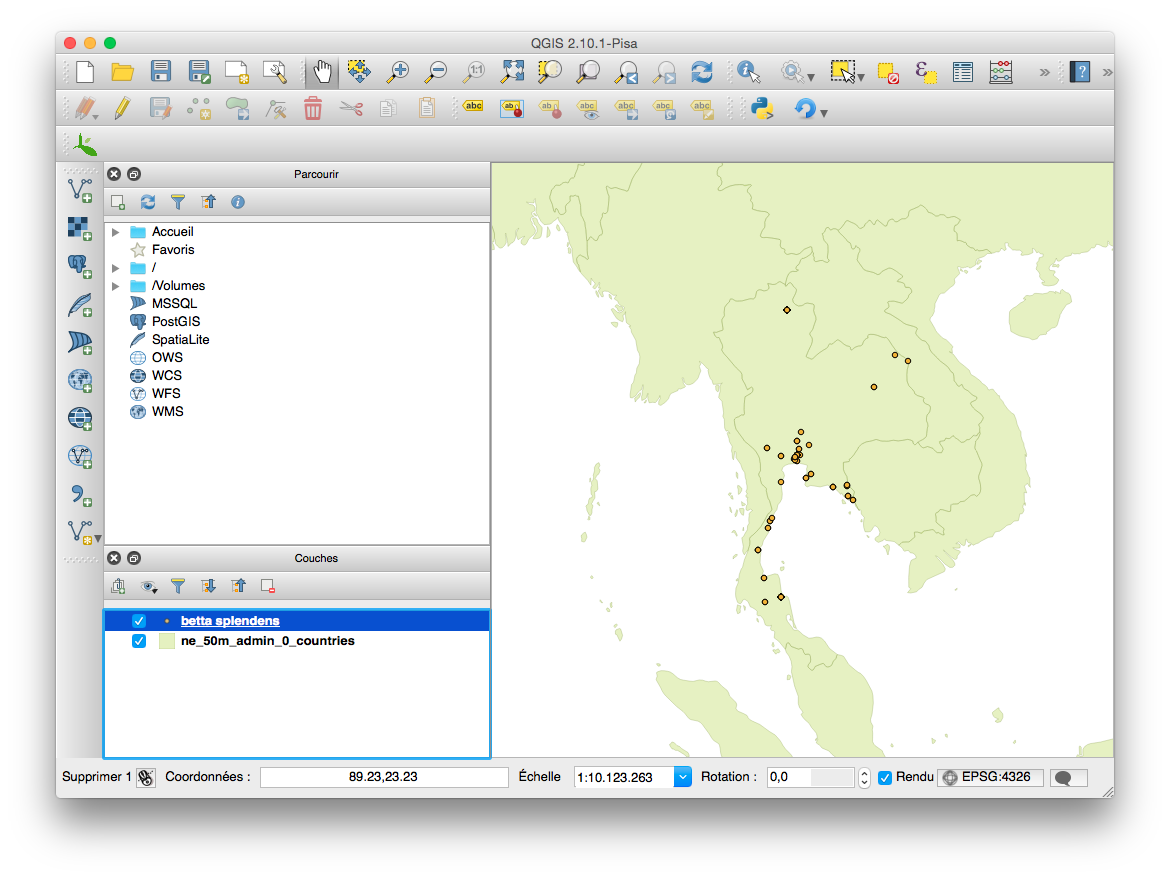
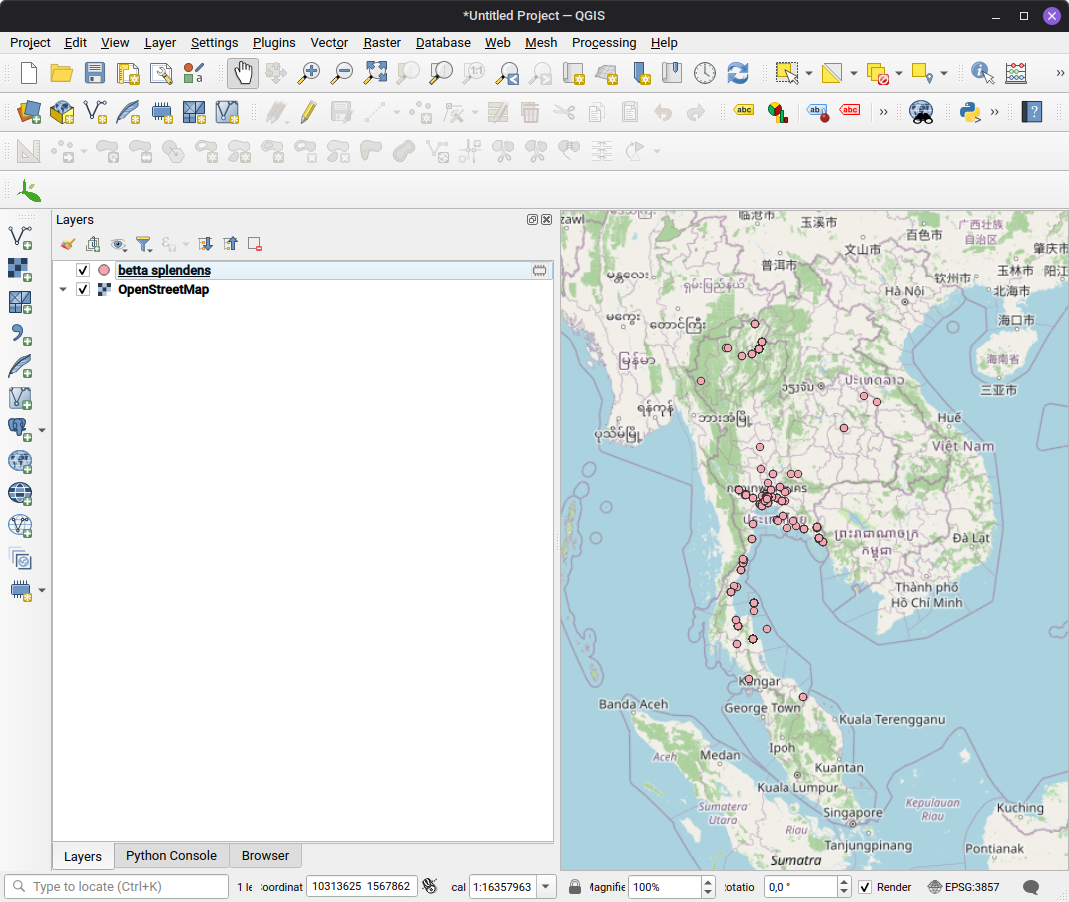
correct country list when there is a , and update readme and some screenshot

diff --git a/GBIFOccurrences/qgis_occurrences_dialog.py b/GBIFOccurrences/qgis_occurrences_dialog.py
@@ -65,9 +65,17 @@ def get_countries():
         country_attr = {}
         line = file.readLine()
         items = line.split(QByteArray(','.encode()))
-        country_attr["name"] = items[0].trimmed().data().decode()
-        country_attr["alpha2"] = items[1].trimmed().data().decode()
-        country_attr["alpha3"] = items[2].trimmed().data().decode()
+        if len(items) > 9:
+            name = items[0].trimmed().data().decode() + ' ' + items[1].trimmed().data().decode()
+            alpha2 = items[2].trimmed().data().decode()
+            alpha3 = items[3].trimmed().data().decode()
+        else:
+            name = items[0].trimmed().data().decode()
+            alpha2 = items[1].trimmed().data().decode()
+            alpha3 = items[2].trimmed().data().decode()
+        country_attr["name"] = name.strip('"')
+        country_attr["alpha2"] = alpha2
+        country_attr["alpha3"] = alpha3
         countries.append(country_attr)
     file.close()
     return countries

diff --git a/README.md b/README.md
@@ -10,8 +10,6 @@ Tutorial
 Installation
 ------------
 
-**Note: the plugin has been re-submitted to the QGIS plugins repository. If you used a previous version, you will need to uninstall it and reinstall it completely (update won't work).**
-
 1. Launch QGIS
 2. In the main menu, go to `Plugins` -> `Manage and install plugins...`
 3. Go to `Settings`and make sure `Show also experimental plugins` is checked
@@ -23,7 +21,7 @@ Installation
 Use
 ---
 
-1. Open the extension window from the main menu: Vector -> GBIF Occurrences -> Load GBIF Occurrences (alternatively, use the ![Plugin icon](./icon.png)icon in the toolbar).
+1. Open the extension window from the main menu: Vector -> GBIF Occurrences -> Load GBIF Occurrences (alternatively, use the ![Plugin icon](./GBIFOccurrences/icon.png) icon in the toolbar).
 
 2. Fill in the details about yout search (for example: *betta splendens* occurring in Thailand) and click "Load occurrences".
 
@@ -34,10 +32,21 @@ Use
 ![Occurrences in QGIS](./screenshot2.png)
 ![Attributes table](./screenshot3.png)
 
+Changelog
+---------
+Since July 2024 there has not been any development on this plugin. Yet it was still one of the most used QGIS plugin for biodiversity data.
+Another developper joined the development 2 years after the last commit to update the plugin for newer version and add some features :
+
+- Add more filters (extent, date not only based on year but on day and month)
+- Improve UI (quick and advanced search, use appropriate QWidget, add tooltip)
+
 Limitations
 -----------
 
 - More filters should be implemented.
+- The plugin is not yet compliant with GBIF and QGIS recommendation (data citation, limit usage of external libs like requests)
+- No translation
+- Documentation limited
 - Due to limitations of the GBIF API, searches are limited to 200,000 records.
 
 Status
